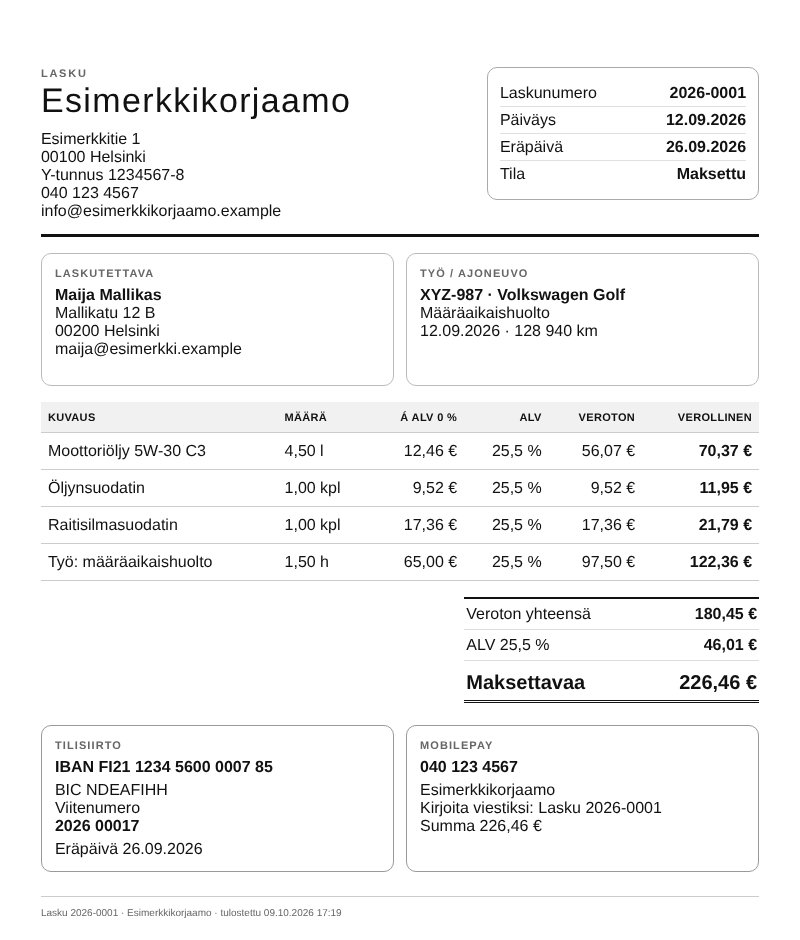
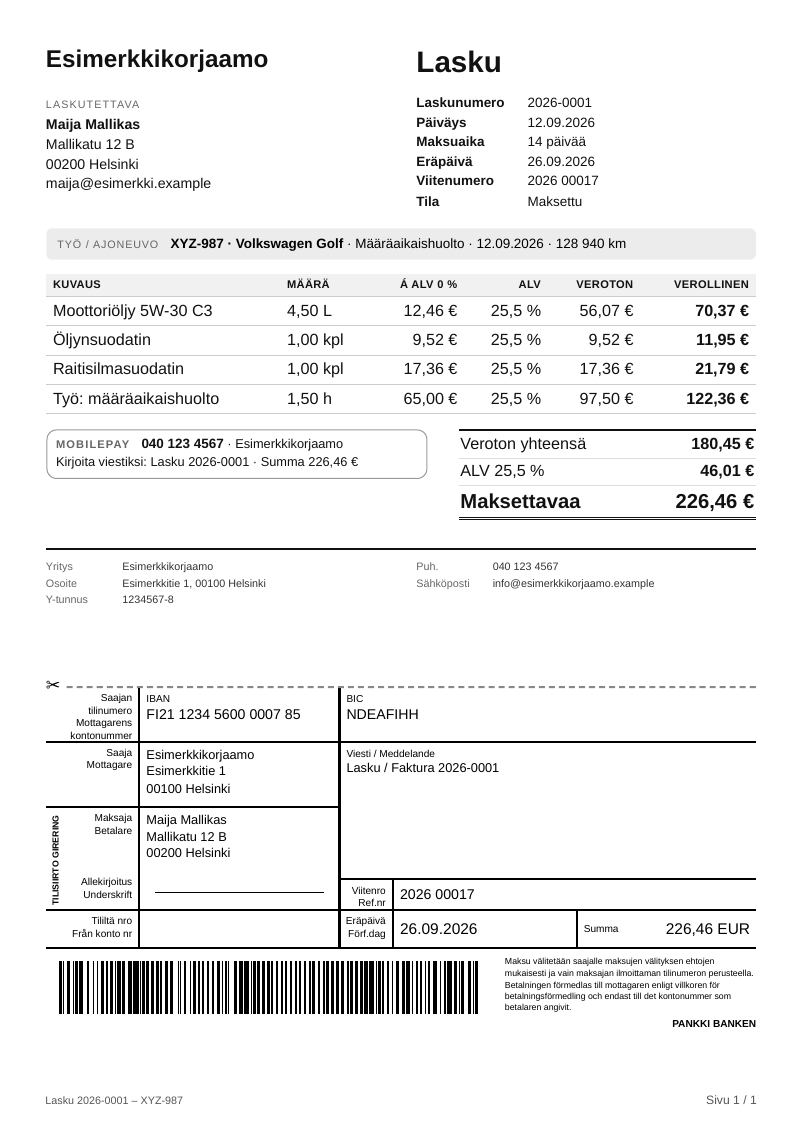
1.2.1: työtunnin yksikön nimi puuttui kielitiedostoista; README:n laskukuvat uudella laskupohjalla
Claude-Session: https://claude.ai/code/session_015XxUqWRYkKn87SXzDFoRcD

diff --git a/index.php b/index.php
@@ -53,7 +53,7 @@ date_default_timezone_set('Europe/Helsinki');
 const DEFAULT_APP_NAME      = 'Autonhuolto';
 const DEFAULT_HOME_TITLE    = 'Huoltokirja';
 const DEFAULT_HOME_SUBTITLE = 'Pidä omat, perheen ja tuttujen autot samassa huoltohistoriassa.';
-const APP_VERSION           = '1.2.0';
+const APP_VERSION           = '1.2.1';
 /* AGPL v3 §13: verkossa ajettavan ohjelman käyttäjille on tarjottava lähdekoodi. Aseta tähän julkisen koodivaraston osoite (esim. 'https://github.com/KÄYTTÄJÄ/autonhuolto'); tyhjänä linkkiä ei näytetä. */
 const APP_SOURCE_URL        = 'https://github.com/oh6kw/autonhuolto';
 const SCHEMA_VERSION   = 13;

diff --git a/lang/sv/vocab.php b/lang/sv/vocab.php
@@ -25,6 +25,7 @@ return [
 'vocab.unit.l'=>'L',
 'vocab.unit.set'=>'sats',
 'vocab.unit.pack'=>'förp.',
+'vocab.unit.h'=>'h',
 
 /* --- fakturans status (invoices.status) --- */
 'vocab.invstatus.draft'=>'Utkast',

diff --git a/lang/fi/vocab.php b/lang/fi/vocab.php
@@ -26,6 +26,7 @@ return [
 'vocab.unit.l'=>'L',
 'vocab.unit.set'=>'sarja',
 'vocab.unit.pack'=>'pkt',
+'vocab.unit.h'=>'h',
 
 /* --- laskun tila (invoices.status) --- */
 'vocab.invstatus.draft'=>'Luonnos',

diff --git a/CHANGELOG.md b/CHANGELOG.md
@@ -4,6 +4,14 @@ Tämä tiedosto kertoo, mitä on muuttunut versiosta toiseen. Tiedostorakenne, a
 
 Versiointi: `pääversio.toinen.korjaus` (esim. 1.0.1 = korjaus, 1.1.0 = uusi ominaisuus). Tietokannan skeemaversio on 13.
 
+## 1.2.1
+
+Korjausversio. Ei tietokantamuutoksia (skeema 13).
+
+- **Korjaus:** työtunnin yksikkö näkyi laskulla (näyttö ja tuloste) tekstinä `vocab.unit.h` (esim. "1,50 vocab.unit.h") versioissa 1.1.0 ja 1.2.0. Yksikön "h" nimi puuttui kielitiedostoista; lisätty suomeksi ja ruotsiksi (`vocab.unit.h`). Löytyi esimerkkilaskua tehdessä.
+- **Tarkistus:** kaikkien tietokannan koodien (toimenpiteet, huoltotyypit, yksiköt, laskun tilat, ryhmät) näyttönimet on tarkistettu molemmista kielitiedostoista; muita puuttuvia ei löytynyt.
+- **README:** laskun esimerkkikuvat (näyttö ja PDF-tuloste) on tehty uudella laskupohjalla.
+
 ## 1.2.0
 
 Laskun tulostus uudistettu: kompakti laskupohja, suomalainen tilisiirtolomake ja pankkiviivakoodi. Ei tietokantamuutoksia (skeema 13); päivitys vain kopioimalla tiedostot vanhojen päälle.
